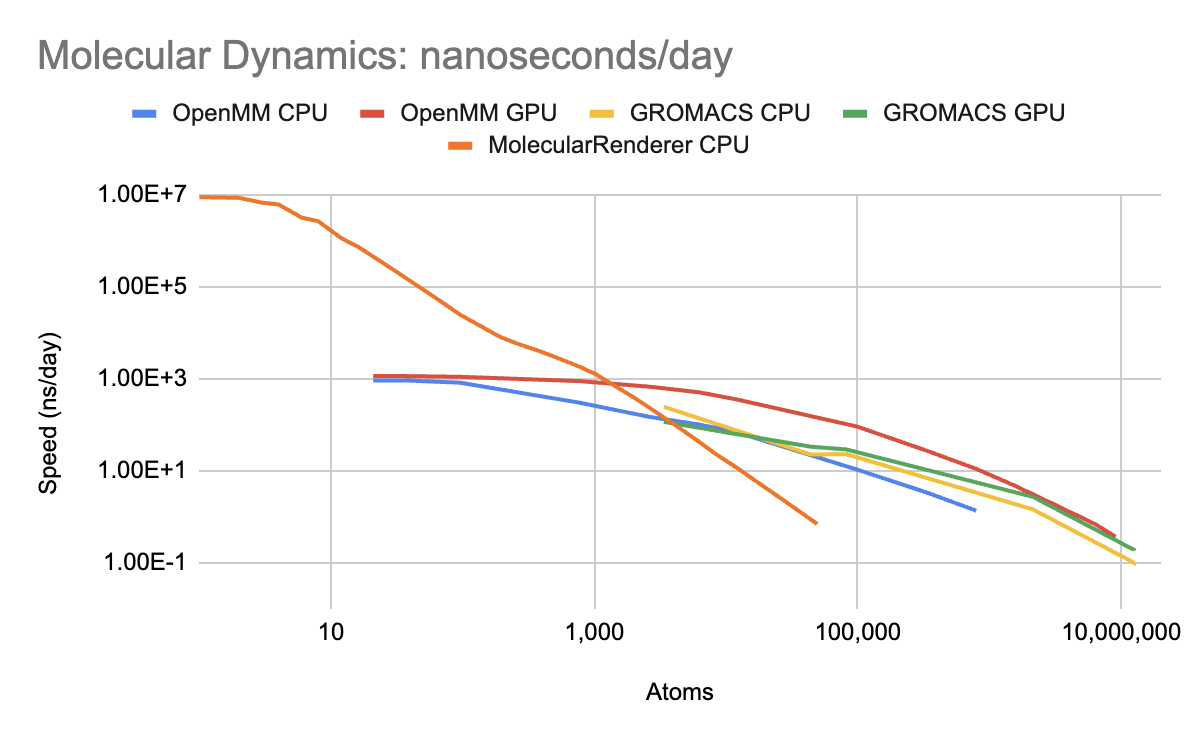
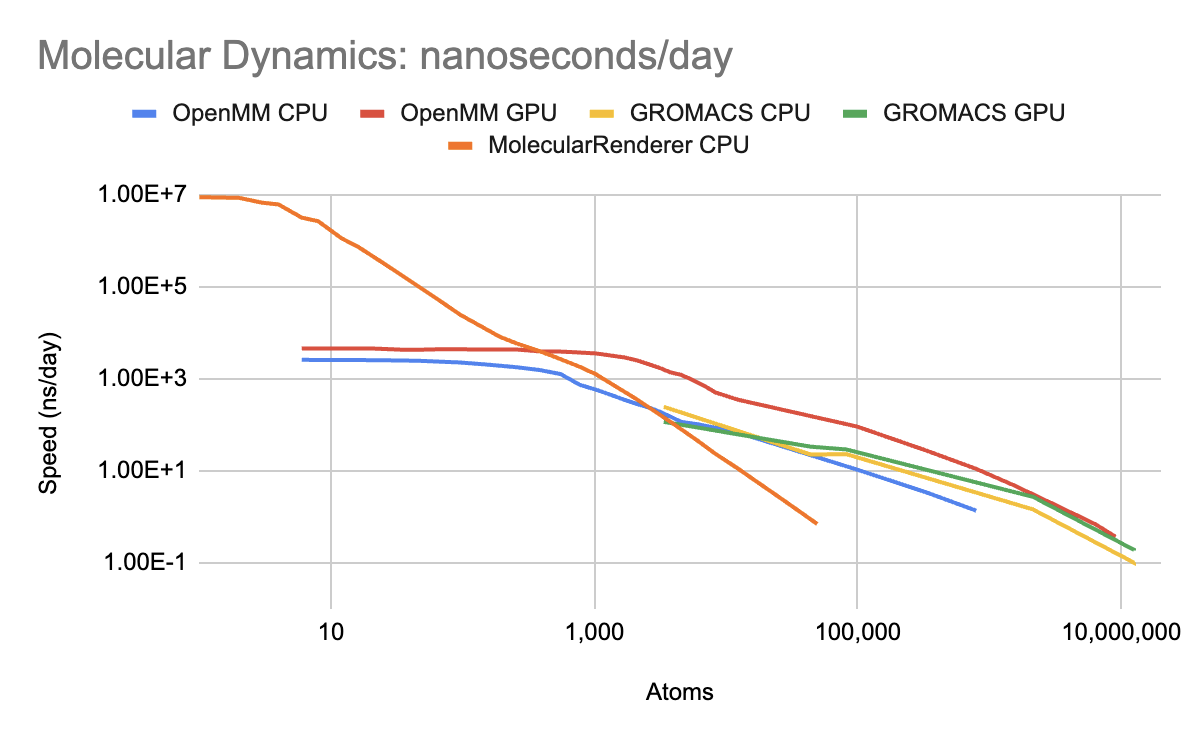
Revise based on new OpenMM data

diff --git a/README.md b/README.md
@@ -12,7 +12,7 @@ Philip Turner
 
 Molecular dynamics (MD) is a type of physics simulation that examines the interactions between individual atoms and molecules. It is used widely in chemistry, materials science, and molecular nanotechnology to understand phenomena that are difficult to measure experimentally. One example is the testing of atomically precise gears and bearings (Fig. 1), which cannot be manufactured with current technology[^1]. MD reveals how the forces present at the atomic scale create unique design constraints, which differ from macroscale mechanical engineering.
 
-There are numerous software libraries for molecular dynamics, each specializing in simulating a different type of molecule. The fastest library for simulating on personal computers is OpenMM[^2], due to utilization of graphics hardware with massive computational power. However, calling into an external library incurs non-negligible overhead, becoming a bottleneck for very small systems. This research paper details the creation of a new simulation program, which outperforms existing libraries for systems with under 1,000 atoms (Fig. 2). The program only supports a single type of interaction between atoms, limiting its applicability to noble gases. Future improvements can extend support to other elements such as carbon and hydrogen.
+There are numerous software libraries for molecular dynamics, each specializing in simulating a different type of molecule. The fastest library for simulating on personal computers is OpenMM[^2], due to utilization of graphics hardware with massive computational power. However, calling into an external library incurs non-negligible overhead, becoming a bottleneck for very small systems. This research paper details the creation of a new simulation program, which outperforms existing libraries for systems with under 300 atoms (Fig. 2). The program only supports a single type of interaction between atoms, limiting its applicability to noble gases. Future improvements can extend support to other elements such as carbon and hydrogen.
 
 <div align="center">
 
@@ -28,7 +28,7 @@ There are numerous software libraries for molecular dynamics, each specializing 
 
 </div>
 
-<i> <b>Figure 2.</b> Simulation speed of various molecular dynamics libraries when the timestep is 4 fs. OpenMM GPU (red) is faster than all other libraries for 1,000 - 1M atoms. The orange line is the Swift code developed for this research paper. It utilizes SIMD parallelism to achieve $O(n)$ scaling between 1 - 8 atoms, faces $O(n^2)$ scaling until 100 atoms, then temporarily becomes $O(n)$ as it utilizes multithreading. At 1,000 atoms, the Swift code becomes slower than OpenMM.</i>
+<i> <b>Figure 2.</b> Simulation speed of various molecular dynamics libraries when the timestep is 4 fs. OpenMM GPU (red) is faster than all other libraries for up to 1,000,000 atoms. The orange line is the Swift code developed for this research paper. It utilizes SIMD parallelism to achieve $O(n)$ scaling between 1 - 8 atoms, faces $O(n^2)$ scaling until 100 atoms, then temporarily becomes $O(n)$ as it utilizes multithreading. At 300 atoms, the Swift code becomes slower than OpenMM.</i>
 
 ## Methods
 
